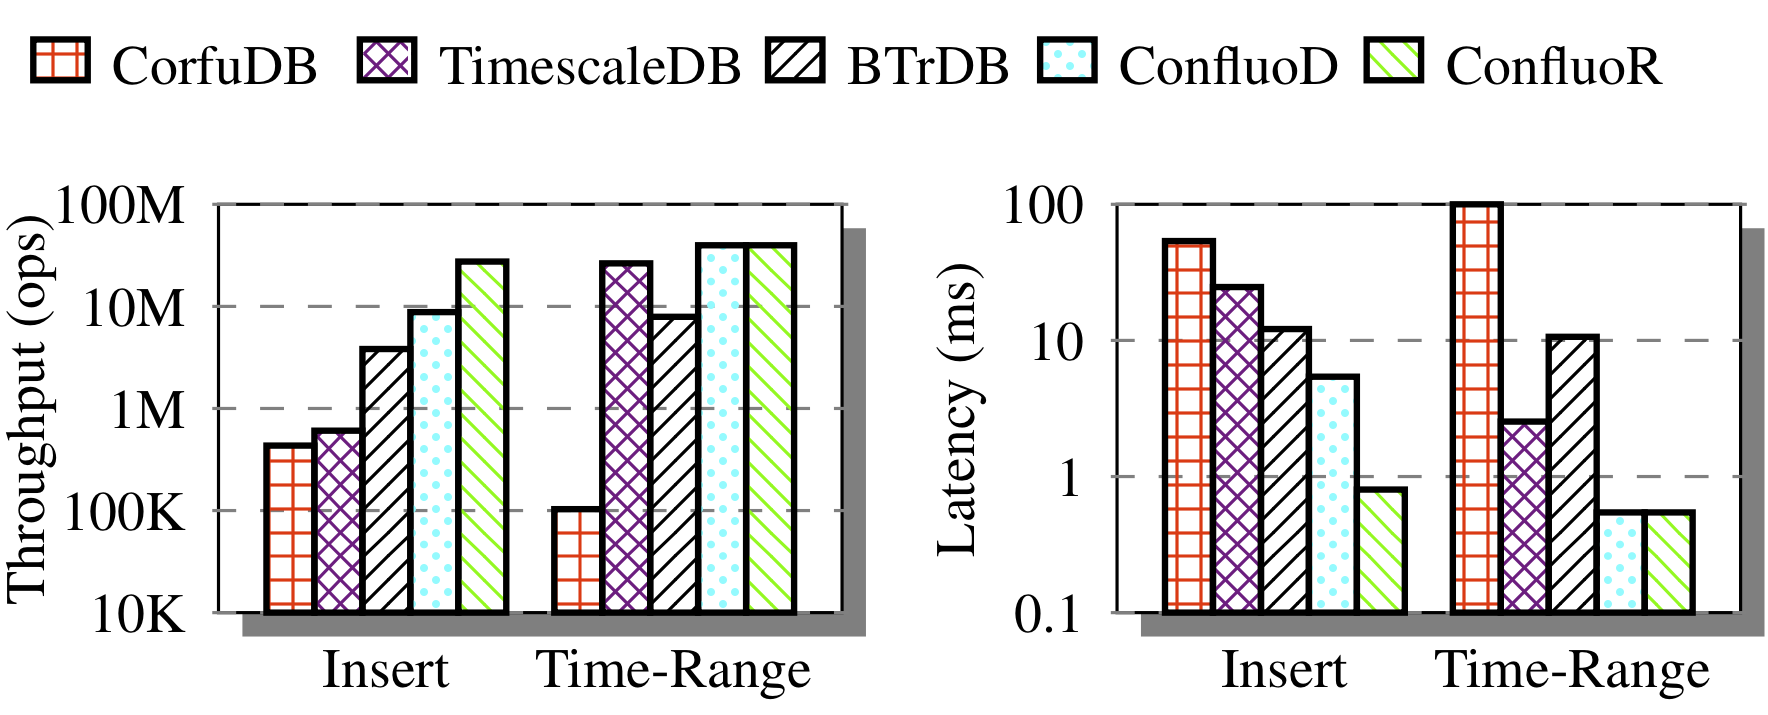
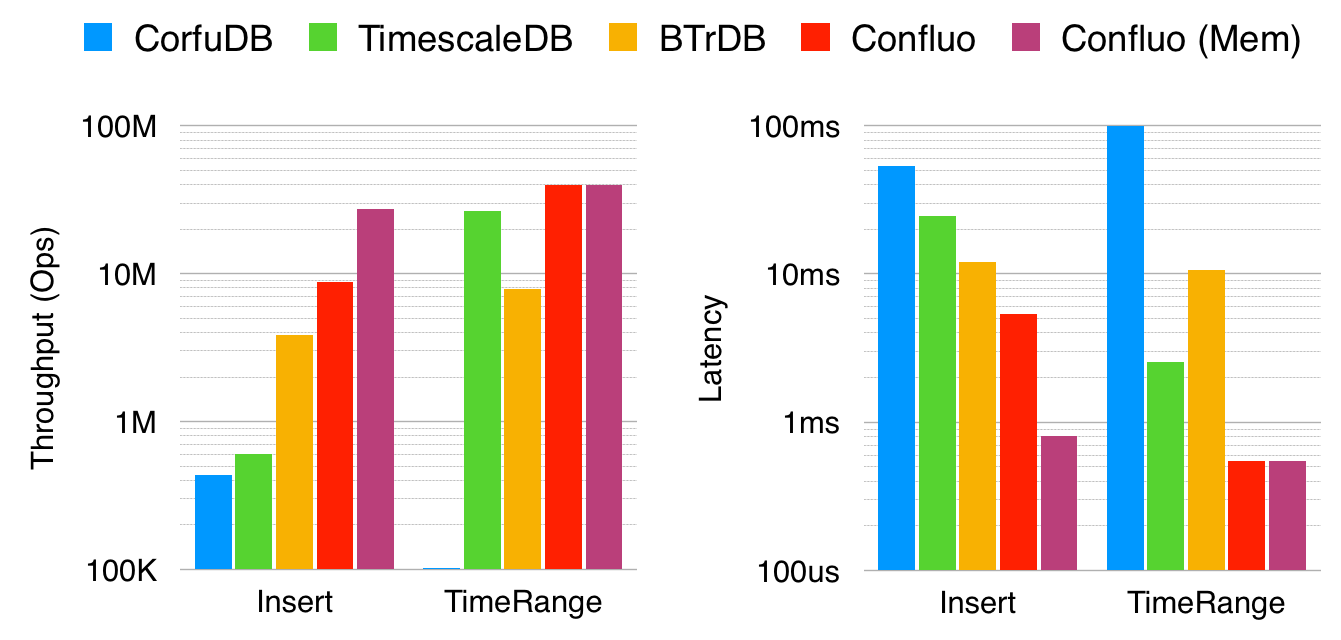
Updated project GitHub Pages

diff --git a/pub_sub/index.html b/pub_sub/index.html
@@ -838,24 +838,60 @@
                 
                 
                 <h1 id="pub-sub-system">Pub-sub System<a class="headerlink" href="#pub-sub-system" title="Permanent link">&para;</a></h1>
-<p>Pub-sub systems like <a href="https://kafka.apache.org">Kafka</a> and <a href="https://aws.amazon.com/kinesis/">Kinesis</a> expose a publish-subscribe interface atop partitioned logs. We describe the implementation of a pub-sub system using Confluo that enables high publish and subscribe throughput for messages via lock-free concurrency.</p>
+<p>Pub-sub systems like <a href="https://kafka.apache.org">Kafka</a> and 
+<a href="https://aws.amazon.com/kinesis/">Kinesis</a> expose a publish-subscribe interface 
+atop partitioned logs. We describe the implementation of a pub-sub system using 
+Confluo that enables high publish and subscribe throughput for messages via 
+lock-free concurrency.</p>
 <h2 id="implementation">Implementation<a class="headerlink" href="#implementation" title="Permanent link">&para;</a></h2>
-<p>Our distributed messaging system implementation employs Kafka’s interface and data model — messages are published to or subscribed from “topics”, which are logically streams of messages. The system maintains a collection of topics, where messages for each topic are stored across a user-specified number of DiaLog shards.</p>
-<p>In our implementation, each shard exposes a basic read and write interface. The publishers write messages in batches to shards of a particular topic, while subscribers asynchronously pull batches of messages from these shards. Similar to Kafka design, each subscriber keeps track of the objectId for its last read message in the shard, incrementing it as it consumes more messages. The key benefits of using Confluo for storing messages include:</p>
+<p>Our distributed messaging system implementation employs Kafka’s interface and 
+data model — messages are published to or subscribed from “topics”, which are 
+logically streams of messages. The system maintains a collection of topics, 
+where messages for each topic are stored across a user-specified number of 
+Confluo shards.</p>
+<p>In our implementation, each shard exposes a basic read and write interface. The 
+publishers write messages in batches to shards of a particular topic, while 
+subscribers asynchronously pull batches of messages from these shards. Similar 
+to Kafka design, each subscriber keeps track of the objectId for its last read 
+message in the shard, incrementing it as it consumes more messages. The key 
+benefits of using Confluo for storing messages include:</p>
 <ul>
-<li>The freedom from read-write contentions, and lock-free resolution of write-write contentions.</li>
-<li>Confluo provides an efficient means to obtain the snapshot of an entire topic, unlike Kafka. </li>
-<li>Support for rich online and offline queries on message streams beyond just publish and subscribe.</li>
+<li>The freedom from read-write contentions, and lock-free resolution of 
+write-write contentions.</li>
+<li>Confluo provides an efficient means to obtain the snapshot of an entire topic,
+unlike Kafka. </li>
+<li>Support for rich online and offline queries on message streams beyond just 
+publish and subscribe.</li>
 </ul>
 <h2 id="compared-systems-and-experimental-setup">Compared Systems and Experimental Setup<a class="headerlink" href="#compared-systems-and-experimental-setup" title="Permanent link">&para;</a></h2>
-<p>We compare the performance for our pub-sub implementation against Apache Kafka. Since both systems are identical in terms of scaling read and write performance via multiple partitions, we ran our experiments on a single r3.8xlarge instance, using a single topic with one log partition for both systems. Reads and writes were performed for 64 byte messages, and concurrent subscribers in both systems belong to different subscriber groups, i.e., perform independent, uncoordinated reads on the partition. We mount Kafka’s storage on a sufficiently sized RAM disk, ensuring that both systems operate completely in memory.</p>
+<p>We compare the performance for our pub-sub implementation against Apache Kafka. 
+Since both systems are identical in terms of scaling read and write performance 
+via multiple partitions, we ran our experiments on a single r3.8xlarge instance,
+using a single topic with one log partition for both systems. Reads and writes 
+were performed for 64 byte messages, and concurrent subscribers in both systems 
+belong to different subscriber groups, i.e., perform independent, uncoordinated 
+reads on the partition. We mount Kafka’s storage on a sufficiently sized RAM 
+disk, ensuring that both systems operate completely in memory.</p>
 <h2 id="results">Results<a class="headerlink" href="#results" title="Permanent link">&para;</a></h2>
 <p align="center">
     <img src="../img/pub_sub_perf.png" />
-    <font size="-1"><b>Figure:</b> <em> Confluo observes close to linear write throughput scaling with #publishers as opposed to Kafka’s sub-linear scaling, while both systems observe close to linear read throughput scaling with #subscribers. Confluo observes sub-linear increase in read and write latency with batch sizes as opposed to Kafka’s linear increase (both axes are in log-scale).</em></font>
+    <font size="-1"><b>Figure:</b> <em> Confluo observes close to linear write 
+    throughput scaling with #publishers as opposed to Kafka’s sub-linear 
+    scaling, while both systems observe close to linear read throughput scaling 
+    with #subscribers (both axes are in log-scale).</em></font>
 </p>
 
-<p>Since Kafka employs locks to synchronize concurrent appends, publisher write throughput suffers due to write-write contentions (Figure (left)). Confluo employs lock-free resolution for these conflicts to achieve high write throughput. Larger batches (16K messages) alleviate locking overheads in Kafka to some extent, while Confluo approaches network saturation at 16K message batches with over 4 publishers. Since reads occur without contention in both systems, read throughput scales linearly with multiple subscribers (Figure (center)). Confluo achieves higher absolute read throughput, presumably due to system overheads in Kafka and not because of a fundamental design difference. As before, read throughput for Confluo saturates at 4 subscribers and 16K message batches due to network saturation. Confluo latency increase is sub-linear with the batch size for both reads and writes, while Kafka observes super-linear increase in latency, particularly for writes (Figure (right)). Again, we suspect this effect is likely due to implementation overheads in Kafka.</p>
+<p>Since Kafka employs locks to synchronize concurrent appends, publisher write 
+throughput suffers due to write-write contentions (Figure (left)). Confluo 
+employs lock-free resolution for these conflicts to achieve high write 
+throughput. Larger batches (16K messages) alleviate locking overheads in Kafka 
+to some extent, while Confluo approaches network saturation at 16K message 
+batches with over 4 publishers. Since reads occur without contention in both 
+systems, read throughput scales linearly with multiple subscribers (Figure 
+(right)). Confluo achieves higher absolute read throughput, presumably due to 
+system overheads in Kafka and not because of a fundamental design difference. 
+As before, read throughput for Confluo saturates at 4 subscribers and 16K 
+message batches due to network saturation.</p>
                 
                   
                 

diff --git a/timeseries_db/index.html b/timeseries_db/index.html
@@ -865,18 +865,27 @@ benchmarks with 500 million records to highlight the per-server performance of
 these systems. Requests are issued as continuous streams with 8K record batches.</p>
 <h2 id="results">Results<a class="headerlink" href="#results" title="Permanent link">&para;</a></h2>
 <p align="center">
-    <img src="../img/tsdb_perf.png" width="50%" />
+    <img src="../img/tsdb_perf.png" width="80%" />
 </p>
 
 <p align="center">
-    <font size="-1"><b>Figure:</b> <em>ConfluoD & ConfluoR measure performance for DURABLE & DURABLE_RELAXED 
-    modes respectively. ConfluoD achieves 2-20x higher throughput, 2-10x lower
-    latency for inserts, and 1.5-5x higher throughput, 5-20x lower latency for
-    time-range queries than compared systems.</em></font>
+    <font size="-1"> <b>Figure:</b> <em> ConfluoD & ConfluoR measure performance
+    for DURABLE & DURABLE_RELAXED modes respectively. ConfluoD achieves 2-20x 
+    higher throughput, 2-10x lower latency for inserts, and 1.5-5x higher 
+    throughput, 5-20x lower latency for time-range queries than compared 
+    systems. </em></font>
 </p>
 
-<p>The figure above shows that systems like CorfuDB and TimescaleDB achieve over 10x lower performance than BTrDB and Confluo. We emphasize that this is not a shortcoming: CorfuDB and TimescaleDB support stronger (transactional) semantics than BTrDB and Confluo. Thus, depending on desired semantics, either class of systems may be useful for an underlying application.</p>
-<p>Confluo, using DURABLE_RELAXED writes, is able to achieve close to 27 million inserts/second due to its cheap versioning and lock-free concurrency control. For time-range queries, almost all systems observe similar throughput since queries are served via in-memory indexes. Insertion and query latency trends are similar to throughput trends across different systems.</p>
+<p>The figure above shows that systems like CorfuDB and TimescaleDB achieve over 
+10x lower performance than BTrDB and Confluo. We emphasize that this is not a 
+shortcoming: CorfuDB and TimescaleDB support stronger (transactional) semantics 
+than BTrDB and Confluo. Thus, depending on desired semantics, either class of 
+systems may be useful for an underlying application.</p>
+<p>Confluo, using DURABLE_RELAXED writes, is able to achieve close to 27 million 
+inserts/second due to its cheap versioning and lock-free concurrency control. 
+For time-range queries, almost all systems observe similar throughput since 
+queries are served via in-memory indexes. Insertion and query latency trends are
+similar to throughput trends across different systems.</p>
                 
                   
                 
